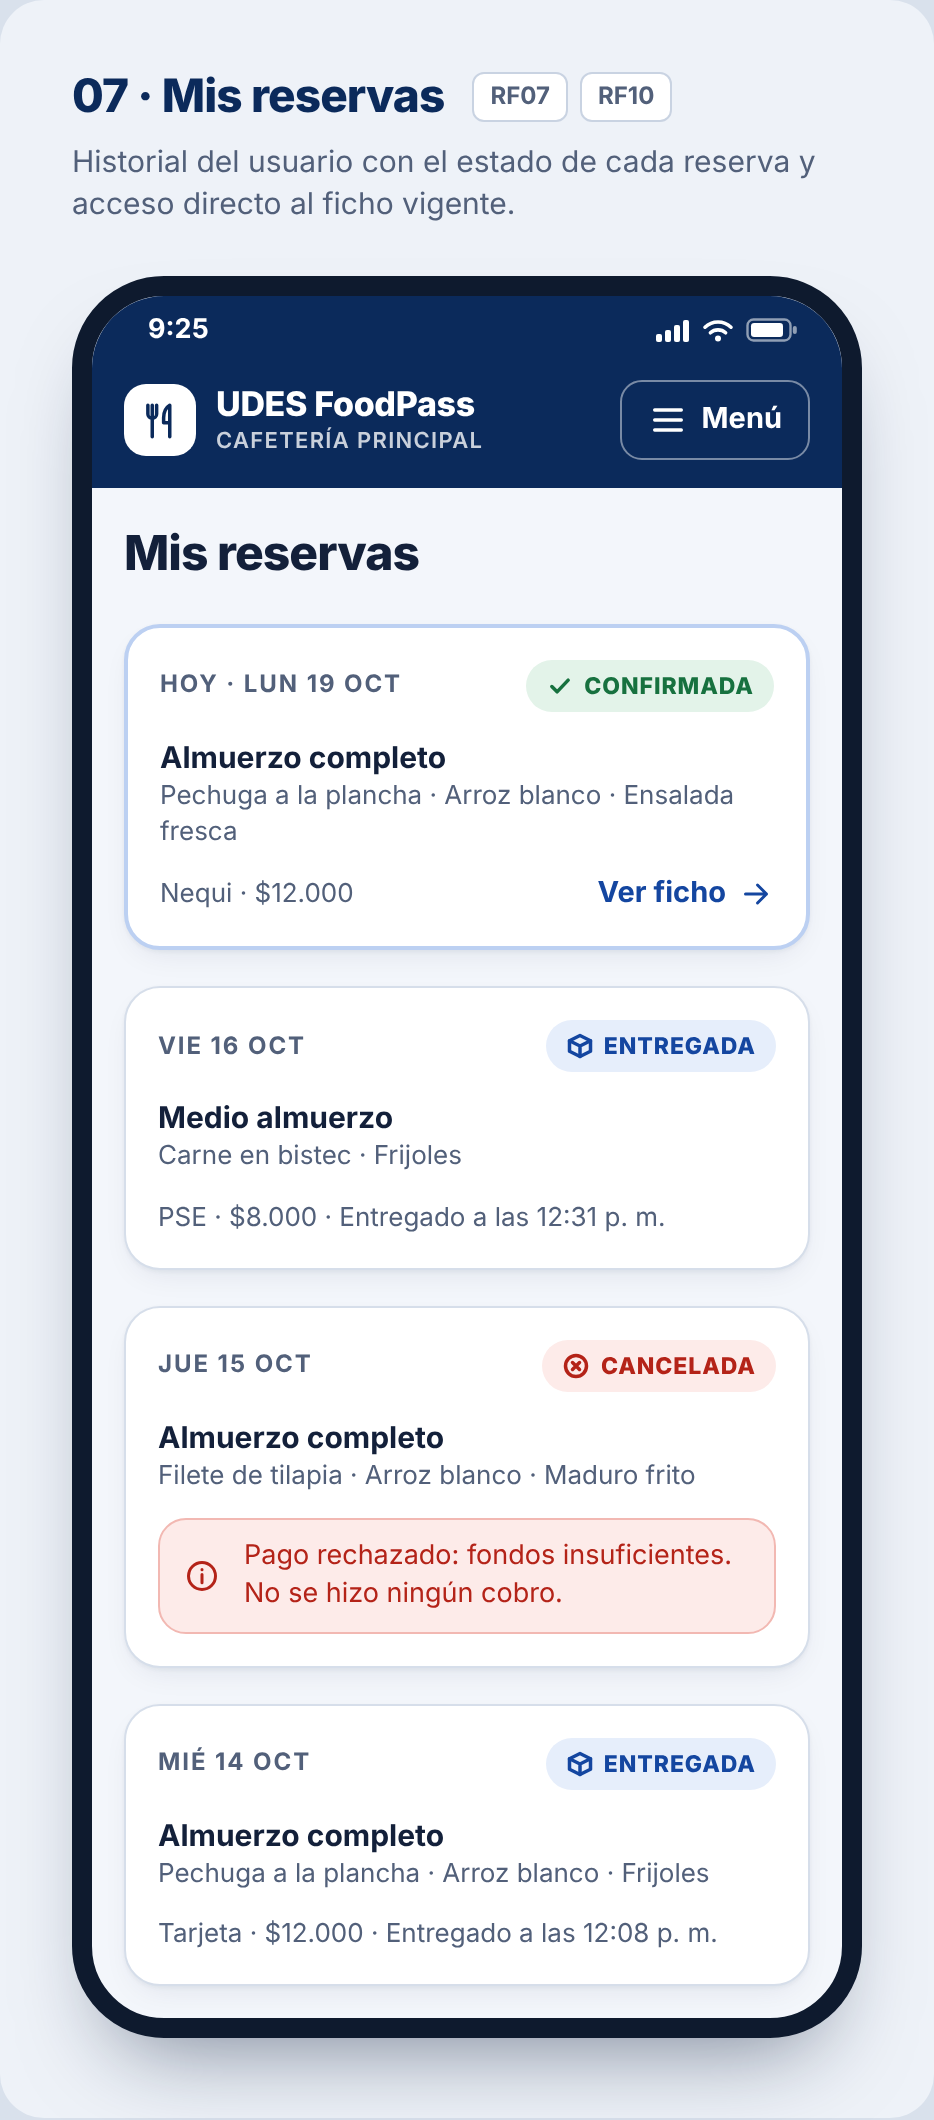
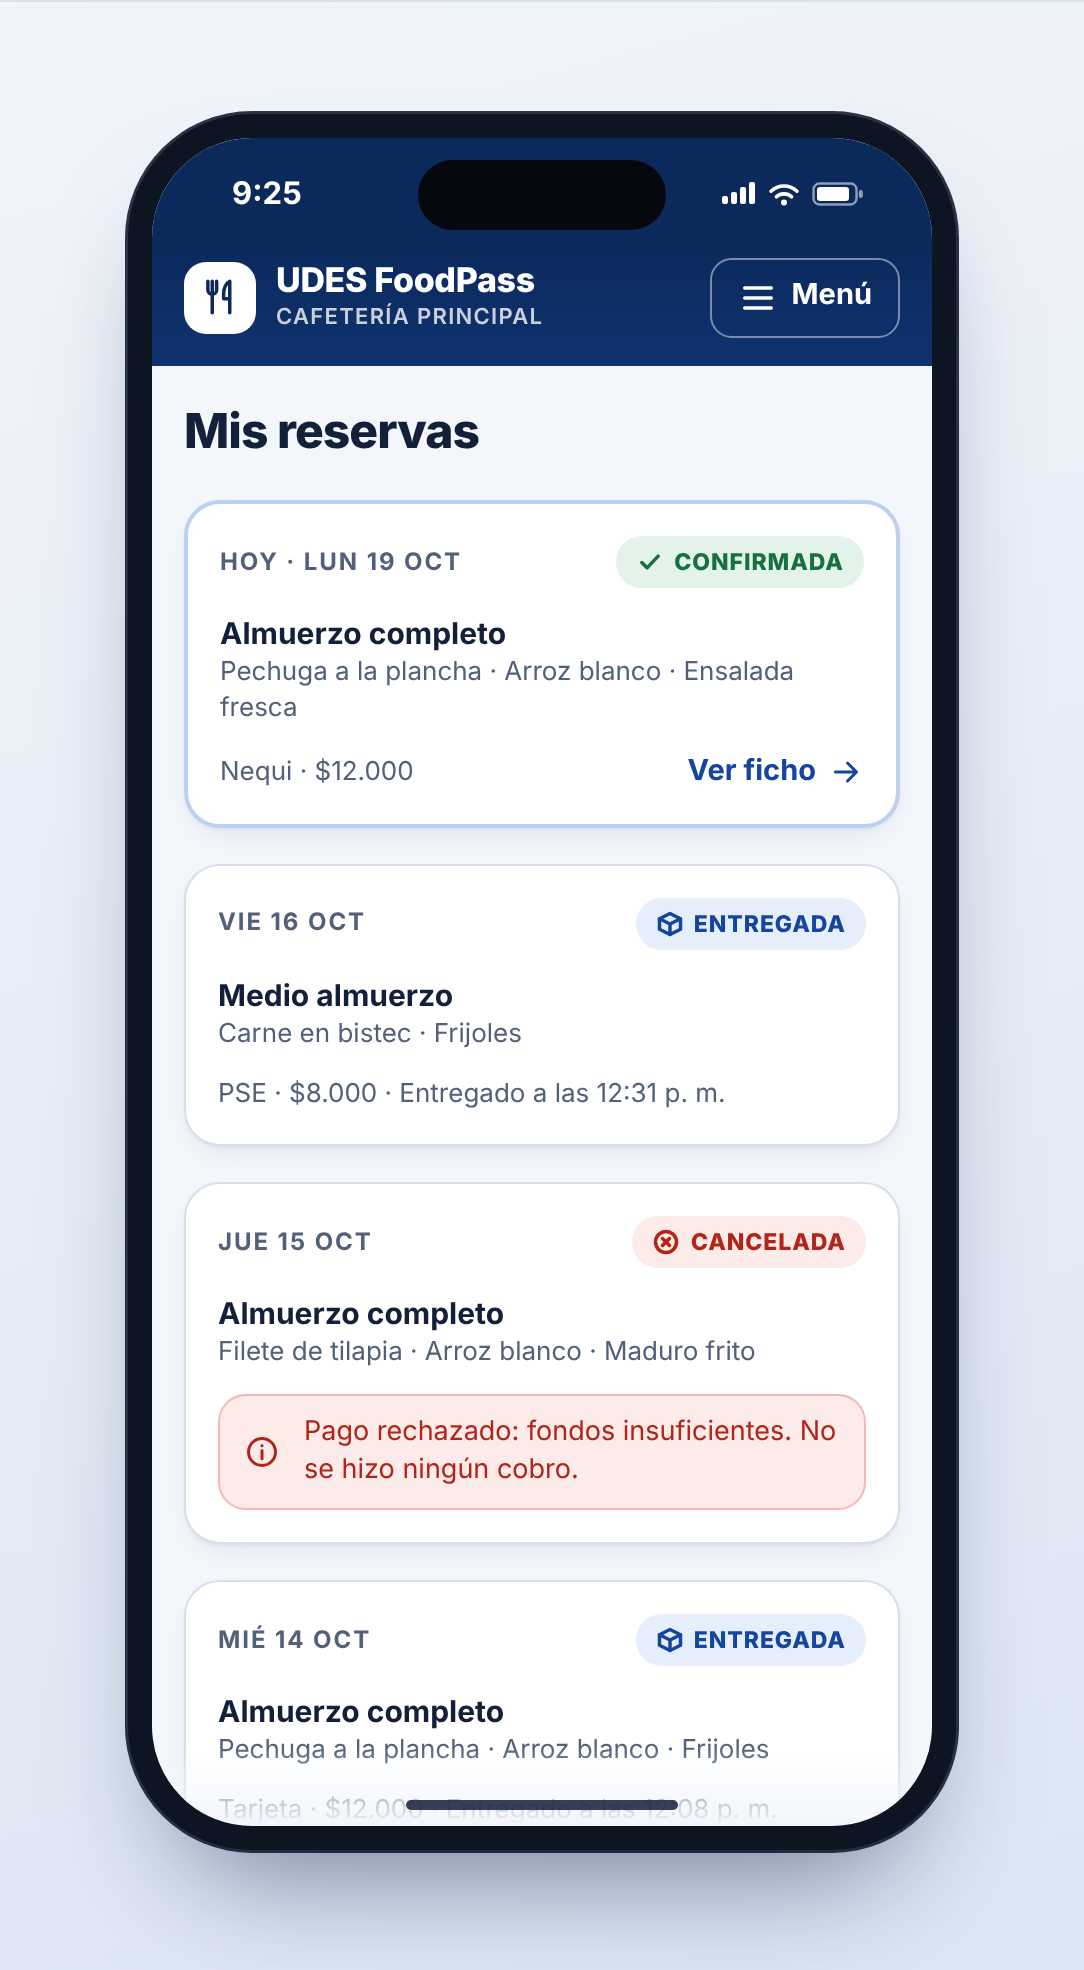
Mejora la presentación de los mockups
- Celular de tamaño real (390 × 844) con isla de cámara, igual en todas las pantallas
- Las pantallas largas se muestran en dos marcos: al abrir y al desplazarse
- Imágenes limpias sin títulos y con fondo uniforme, para que se alineen
- Nueva portada con el flujo de reserva en 3 pasos (00-flujo-reserva.png)
- README y docs/diseno/README.md usan la portada y la nueva galería

Claude-Session: https://claude.ai/code/session_013jvoPUQ86cMtxh9HJJ4SMS

diff --git a/docs/diseno/fuente/pantallas.html b/docs/diseno/fuente/pantallas.html
@@ -61,6 +61,23 @@ body.wf .solo-mk{display:none!important}
 .telefonos{display:flex;gap:28px;align-items:flex-start}
 .telefonos.rejilla-3{display:grid;grid-template-columns:repeat(3,max-content);gap:28px}
 .pie-tel{margin-top:10px;text-align:center;font-size:13px;font-weight:700;color:var(--texto-suave)}
+/* Exportación limpia de mockups (?exportar=1): sin título ni texto, fondo uniforme */
+.exportar .tablero-titulo,.exportar .tablero-sub{display:none}
+.exportar .tablero{background:linear-gradient(165deg,#F1F5FB 0%,#DCE5F3 100%);padding:56px 64px 60px;border-radius:0}
+.exportar .pie-tel{margin-top:18px;font-size:16px;color:#33435F}
+/* Portada del flujo de reserva */
+.tablero.heroe{background:radial-gradient(900px 520px at 12% -10%,#2457B5 0%,rgba(36,87,181,0) 70%),linear-gradient(160deg,#0B2A5B 0%,#061631 100%);color:#fff;padding:60px 72px 72px;border-radius:22px}
+.exportar .tablero.heroe{border-radius:0}
+.heroe-cab{display:flex;align-items:center;gap:20px;margin-bottom:44px}
+.heroe-cab h2{font-size:38px;font-weight:800;letter-spacing:-.02em;line-height:1.1}
+.heroe-cab p{font-size:19px;opacity:.86;margin-top:4px}
+.heroe-cab .logo{width:64px;height:64px;border-radius:19px}
+.heroe-cab .logo .ico{width:36px;height:36px}
+.heroe .telefonos{gap:52px}
+.heroe figure{display:flex;flex-direction:column;align-items:center;gap:22px}
+.heroe figcaption{display:flex;align-items:center;gap:12px;font-size:21px;font-weight:700}
+.heroe figcaption b{width:38px;height:38px;border-radius:50%;background:#fff;color:#0B2A5B;display:grid;place-items:center;font-size:19px;font-weight:800}
+.heroe .tel{color:var(--texto);box-shadow:0 36px 70px -24px rgba(0,0,0,.7),0 0 0 1.5px rgba(255,255,255,.18)!important}
 
 /* ---------- Notas del wireframe ---------- */
 .notas{width:340px;flex:none;background:#fff;border:1.5px solid #BDBDBD;border-radius:14px;padding:18px 20px;font-size:13.5px;line-height:1.5;color:#262626}
@@ -78,6 +95,17 @@ body.wf .solo-mk{display:none!important}
 .tel{width:395px;border:10px solid #0E1A2E;border-radius:46px;background:var(--fondo);overflow:hidden;box-shadow:0 24px 44px -20px rgba(11,27,58,.5);flex:none}
 .tel.mini{width:330px;border-radius:40px}
 .wf .tel{border:2px solid #444;border-radius:30px;box-shadow:none}
+/* Mockups: celular realista de 390 × 844 con isla de cámara e indicador de inicio */
+.mk .tel,.mk .tel.mini{width:414px;border:12px solid #0D1522;border-radius:62px;position:relative;box-shadow:0 34px 60px -26px rgba(11,27,58,.55),0 0 0 1.5px #2A3446}
+.mk .tel .pantalla,.mk .tel.mini .pantalla{height:844px;min-height:0;overflow:hidden}
+.mk .pantalla>.contenido{flex:1 1 auto;min-height:0;overflow:hidden;-webkit-mask-image:linear-gradient(to bottom,#000 calc(100% - 40px),transparent);mask-image:linear-gradient(to bottom,#000 calc(100% - 40px),transparent)}
+.mk .contenido>:first-child{margin-top:var(--desp,0px)}
+.mk .barra-estado{height:52px;position:relative;padding:4px 34px 0 40px;font-size:15.5px;flex:none}
+.mk .barra-estado::after{content:"";position:absolute;left:50%;top:11px;transform:translateX(-50%);width:124px;height:35px;border-radius:20px;background:#05080F}
+.mk .tel::after{content:"";position:absolute;bottom:8px;left:50%;transform:translateX(-50%);width:136px;height:5px;border-radius:3px;background:#13203A;opacity:.85;z-index:10}
+.mk .barra-accion{padding-bottom:30px}
+.mk .app-header{background:linear-gradient(180deg,#0B2A5B 0%,#0F3270 100%)}
+.mk .tel.mini .marca{font-size:17px}
 .pantalla{display:flex;flex-direction:column;min-height:800px;position:relative}
 .tel.mini .pantalla{min-height:600px}
 .tel.mini .marca{font-size:15.5px}
@@ -506,6 +534,21 @@ body.wf .solo-mk{display:none!important}
 <main class="lienzo">
 
 <!-- ===================================================================== -->
+<!-- 00 · PORTADA DEL FLUJO (solo mockups)                                 -->
+<!-- ===================================================================== -->
+<section class="tablero heroe solo-mk" id="00-flujo-reserva">
+  <div class="heroe-cab">
+    <span class="logo"><svg class="ico"><use href="#i-cubiertos"/></svg></span>
+    <div><h2>UDES FoodPass</h2><p>Reserva tu almuerzo en 3 pasos y reclámalo sin hacer fila.</p></div>
+  </div>
+  <div class="telefonos">
+    <figure><figcaption><b>1</b>Elige tu almuerzo</figcaption><div class="clon" data-de="02-menu-del-dia"></div></figure>
+    <figure><figcaption><b>2</b>Paga o aplica tu subsidio</figcaption><div class="clon" data-de="04-resumen-pago" data-desp="-362px"></div></figure>
+    <figure><figcaption><b>3</b>Reclama con tu ficho QR</figcaption><div class="clon" data-de="06-mi-ficho"></div></figure>
+  </div>
+</section>
+
+<!-- ===================================================================== -->
 <!-- 01 · INICIO DE SESIÓN                                                 -->
 <!-- ===================================================================== -->
 <section class="tablero" id="01-inicio-sesion">
@@ -585,6 +628,7 @@ body.wf .solo-mk{display:none!important}
   <div class="tablero-titulo"><h2>02 · Menú del día</h2><div class="reqs"><span class="req">RF03</span><span class="req">RF04</span><span class="req">RF05</span><span class="req">RNF04</span></div></div>
   <p class="tablero-sub">Paso 1 de 3. Un estudiante regular elige almuerzo completo, una proteína y hasta dos acompañamientos. La hora límite y las porciones siempre están a la vista.</p>
   <div class="tablero-cuerpo">
+    <div class="telefonos"><div>
     <div class="tel"><div class="pantalla">
       <div class="barra-estado"><span>9:18</span><span class="iconos"><svg width="17" height="11" fill="currentColor"><use href="#e-senal"/></svg><svg width="16" height="12" fill="currentColor"><use href="#e-wifi"/></svg><svg width="26" height="12" fill="currentColor"><use href="#e-bateria"/></svg></span></div>
       <header class="app-header">
@@ -678,6 +722,9 @@ body.wf .solo-mk{display:none!important}
         <button class="btn btn-primario">Continuar al pago<svg class="ico"><use href="#i-flecha-der"/></svg><b class="n abs">9</b></button>
       </div>
     </div></div>
+    <p class="pie-tel solo-mk">Al abrir: tipo de almuerzo y proteína</p></div>
+    <div class="solo-mk"><div class="clon" data-de="02-menu-del-dia" data-desp="-772px"></div><p class="pie-tel">Al desplazarse: acompañamientos</p></div>
+    </div>
 
     <aside class="notas">
       <h3>Notas del wireframe</h3>
@@ -746,6 +793,7 @@ body.wf .solo-mk{display:none!important}
   <div class="tablero-titulo"><h2>04 · Resumen y pago</h2><div class="reqs"><span class="req">RF09</span><span class="req">RF10</span><span class="req">RNF05</span></div></div>
   <p class="tablero-sub">Paso 2 de 3 para estudiante regular y empleado UDES. El total lo calcula el backend. Al elegir un medio de pago se despliegan solo los datos que ese medio necesita.</p>
   <div class="tablero-cuerpo">
+    <div class="telefonos"><div>
     <div class="tel"><div class="pantalla">
       <div class="barra-estado"><span>9:19</span><span class="iconos"><svg width="17" height="11" fill="currentColor"><use href="#e-senal"/></svg><svg width="16" height="12" fill="currentColor"><use href="#e-wifi"/></svg><svg width="26" height="12" fill="currentColor"><use href="#e-bateria"/></svg></span></div>
       <header class="app-header">
@@ -808,6 +856,9 @@ body.wf .solo-mk{display:none!important}
         <p class="nota-peq"><svg class="ico"><use href="#i-candado"/></svg>Conexión segura · Reintentar nunca cobra dos veces</p>
       </div>
     </div></div>
+    <p class="pie-tel solo-mk">Al abrir: pedido y total</p></div>
+    <div class="solo-mk"><div class="clon" data-de="04-resumen-pago" data-desp="-455px"></div><p class="pie-tel">Al desplazarse: medio de pago</p></div>
+    </div>
     <aside class="notas">
       <h3>Notas del wireframe</h3>
       <ol>
@@ -890,6 +941,7 @@ body.wf .solo-mk{display:none!important}
   <div class="tablero-titulo"><h2>06 · Mi Ficho</h2><div class="reqs"><span class="req">RF07</span><span class="req">RF10</span></div></div>
   <p class="tablero-sub">Paso 3 de 3. Se muestra apenas el pago es aprobado o el subsidio se aplica. Es la misma pantalla de "Mi Ficho" en el menú.</p>
   <div class="tablero-cuerpo">
+    <div class="telefonos"><div>
     <div class="tel"><div class="pantalla">
       <div class="barra-estado"><span>9:20</span><span class="iconos"><svg width="17" height="11" fill="currentColor"><use href="#e-senal"/></svg><svg width="16" height="12" fill="currentColor"><use href="#e-wifi"/></svg><svg width="26" height="12" fill="currentColor"><use href="#e-bateria"/></svg></span></div>
       <header class="app-header">
@@ -930,6 +982,9 @@ body.wf .solo-mk{display:none!important}
         <button class="btn btn-texto peligro">Cancelar reserva<b class="n abs" style="right:70px">6</b></button>
       </main>
     </div></div>
+    <p class="pie-tel solo-mk">Al abrir: estado y código QR</p></div>
+    <div class="solo-mk"><div class="clon" data-de="06-mi-ficho" data-desp="-622px"></div><p class="pie-tel">Al desplazarse: detalles y aviso</p></div>
+    </div>
     <aside class="notas">
       <h3>Notas del wireframe</h3>
       <ol>
@@ -1513,6 +1568,16 @@ body.wf .solo-mk{display:none!important}
   // Cambia entre wireframe y mockup con ?modo=wireframe | ?modo=mockup
   const modo = new URLSearchParams(location.search).get('modo') === 'wireframe' ? 'wireframe' : 'mockup';
   document.body.className = modo === 'wireframe' ? 'wf' : 'mk';
+  // ?exportar=1 quita títulos y textos para generar imágenes limpias
+  if (new URLSearchParams(location.search).has('exportar')) document.body.classList.add('exportar');
+  // Copia un teléfono de otra pantalla (portada y marcos desplazados), con desplazamiento opcional
+  document.querySelectorAll('.clon').forEach(c => {
+    const origen = document.getElementById(c.dataset.de)?.querySelector('.tel');
+    if (!origen) return;
+    const copia = origen.cloneNode(true);
+    if (c.dataset.desp) copia.querySelector('.contenido')?.style.setProperty('--desp', c.dataset.desp);
+    c.replaceWith(copia);
+  });
   document.querySelectorAll('.selector-modo a').forEach(a => {
     if (a.dataset.modo === modo) a.setAttribute('aria-current', 'page');
   });

diff --git a/docs/diseno/README.md b/docs/diseno/README.md
@@ -5,12 +5,14 @@ Diseño de todas las pantallas de **UDES FoodPass**, en dos niveles de detalle:
 | | Wireframes | Mockups |
 |---|---|---|
 | **Para qué sirven** | Definir la **estructura**: qué va en cada pantalla, en qué orden y por qué | Mostrar el **aspecto final**: colores, tipografía, íconos e imágenes |
-| **Cómo se ven** | Escala de grises, imágenes como cajas con una X, **notas numeradas** que relacionan cada elemento con un requisito (RF/RNF) | Identidad UDES en azules y blanco, ilustraciones de los platos y un QR real |
+| **Cómo se ven** | Escala de grises, imágenes como cajas con una X, **notas numeradas** que relacionan cada elemento con un requisito (RF/RNF) | Identidad UDES en azules y blanco, ilustraciones de los platos y un QR real, dentro de un celular de tamaño real (390 × 844) |
 | **Carpeta** | [`wireframes/`](wireframes/) | [`mockups/`](mockups/) |
 
 > **Datos de ejemplo.** Nombres, precios, porciones y tokens son ficticios.
 >
 > Algunos detalles reflejan **propuestas pendientes de confirmar** (ver `CLAUDE.md`, sección 13). Por ejemplo: máximo de 2 o 1 acompañamientos, imagen de cada plato y las reglas de cancelación. Las notas de los wireframes las marcan como *pendiente*.
+
+![Flujo de reserva en 3 pasos](mockups/00-flujo-reserva.png)
 
 ## Flujo principal (máximo 3 pasos, RNF04)
 
@@ -60,29 +62,61 @@ Diseño de todas las pantallas de **UDES FoodPass**, en dos niveles de detalle:
 
 ## Galería de mockups
 
+Todas las imágenes tienen el mismo celular y el mismo fondo. Las pantallas más largas que el celular (menú del día, resumen y pago, Mi Ficho) se muestran en dos marcos: al abrir y al desplazarse.
+
 ### Usuario
 
-| Inicio de sesión | Menú del día | Resumen y pago |
-|---|---|---|
-| ![Inicio de sesión](mockups/01-inicio-sesion.png) | ![Menú del día](mockups/02-menu-del-dia.png) | ![Resumen y pago](mockups/04-resumen-pago.png) |
+**01 · Inicio de sesión**
 
-| Resumen con subsidio | Mi Ficho | Mis reservas |
-|---|---|---|
-| ![Resumen con subsidio](mockups/05-resumen-subsidiado.png) | ![Mi Ficho](mockups/06-mi-ficho.png) | ![Mis reservas](mockups/07-mis-reservas.png) |
+![Inicio de sesión](mockups/01-inicio-sesion.png)
+
+**02 · Menú del día**
+
+![Menú del día](mockups/02-menu-del-dia.png)
+
+**03 · Menú desplegable**
 
 ![Menú desplegable](mockups/03-menu-navegacion.png)
+
+**04 · Resumen y pago**
+
+![Resumen y pago](mockups/04-resumen-pago.png)
+
+**05 · Resumen con subsidio**
+
+![Resumen con subsidio](mockups/05-resumen-subsidiado.png)
+
+**06 · Mi Ficho**
+
+![Mi Ficho](mockups/06-mi-ficho.png)
+
+**07 · Mis reservas**
+
+![Mis reservas](mockups/07-mis-reservas.png)
+
+**08 · Estados de error**
 
 ![Estados de error](mockups/08-estados-error.png)
 
 ### Administrador
 
+**09 · Menú del día y porciones**
+
 ![Menú del día (administrador)](mockups/09-admin-menu-del-dia.png)
+
+**10 · Catálogos**
 
 ![Catálogos](mockups/10-admin-catalogos.png)
 
+**11 · Horarios de reserva**
+
 ![Horarios de reserva](mockups/11-admin-horarios.png)
 
+**12 · Validación de fichos**
+
 ![Validación de fichos](mockups/12-admin-validar-ficho.png)
+
+**13 · Entregas del día**
 
 ![Entregas del día](mockups/13-admin-entregas.png)
 
@@ -109,4 +143,5 @@ Todo sale de **un solo archivo**: [`fuente/pantallas.html`](fuente/pantallas.htm
 1. Ábrelo en el navegador para verlo en vivo:
    - `pantallas.html` muestra los mockups.
    - `pantallas.html?modo=wireframe` muestra los wireframes.
+   - `pantallas.html?modo=mockup&exportar=1` muestra los mockups sin títulos, tal como quedan en las imágenes.
 2. Para regenerar los PNG después de editarlo: `node docs/diseno/fuente/renderizar.mjs`. Requiere Playwright con Chromium, que no es una dependencia del proyecto.

diff --git a/README.md b/README.md
@@ -23,9 +23,7 @@ El administrador gestiona el menú, las porciones y los horarios. En la entrega 
 
 Los **wireframes** (estructura, en escala de grises y con anotaciones) y los **mockups** (diseño final con la identidad UDES) de todas las pantallas están en [`docs/diseno/`](docs/diseno/README.md).
 
-| Menú del día | Resumen y pago | Mi Ficho |
-|---|---|---|
-| ![Mockup del menú del día](docs/diseno/mockups/02-menu-del-dia.png) | ![Mockup del resumen y pago](docs/diseno/mockups/04-resumen-pago.png) | ![Mockup de Mi Ficho](docs/diseno/mockups/06-mi-ficho.png) |
+![Flujo de reserva en 3 pasos: elige tu almuerzo, paga o aplica tu subsidio y reclama con tu ficho QR](docs/diseno/mockups/00-flujo-reserva.png)
 
 ## Tecnologías
 
